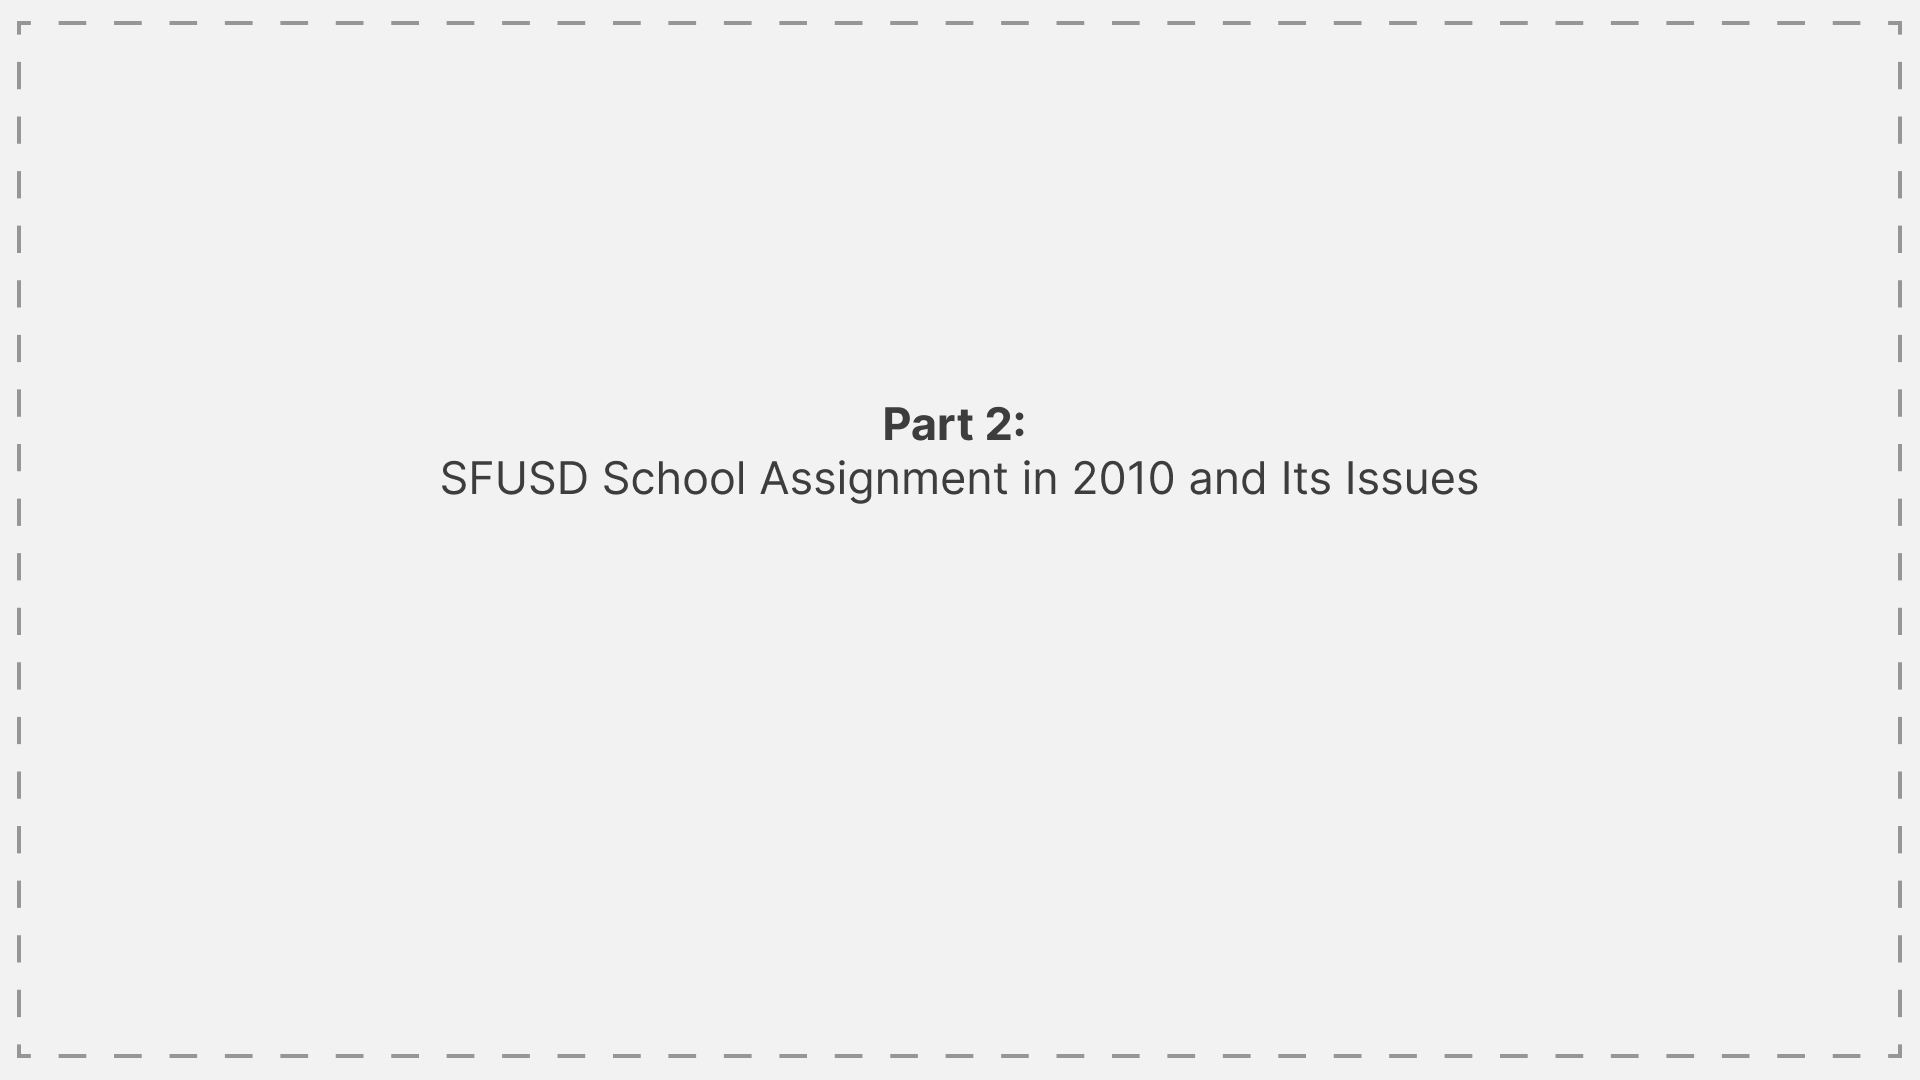
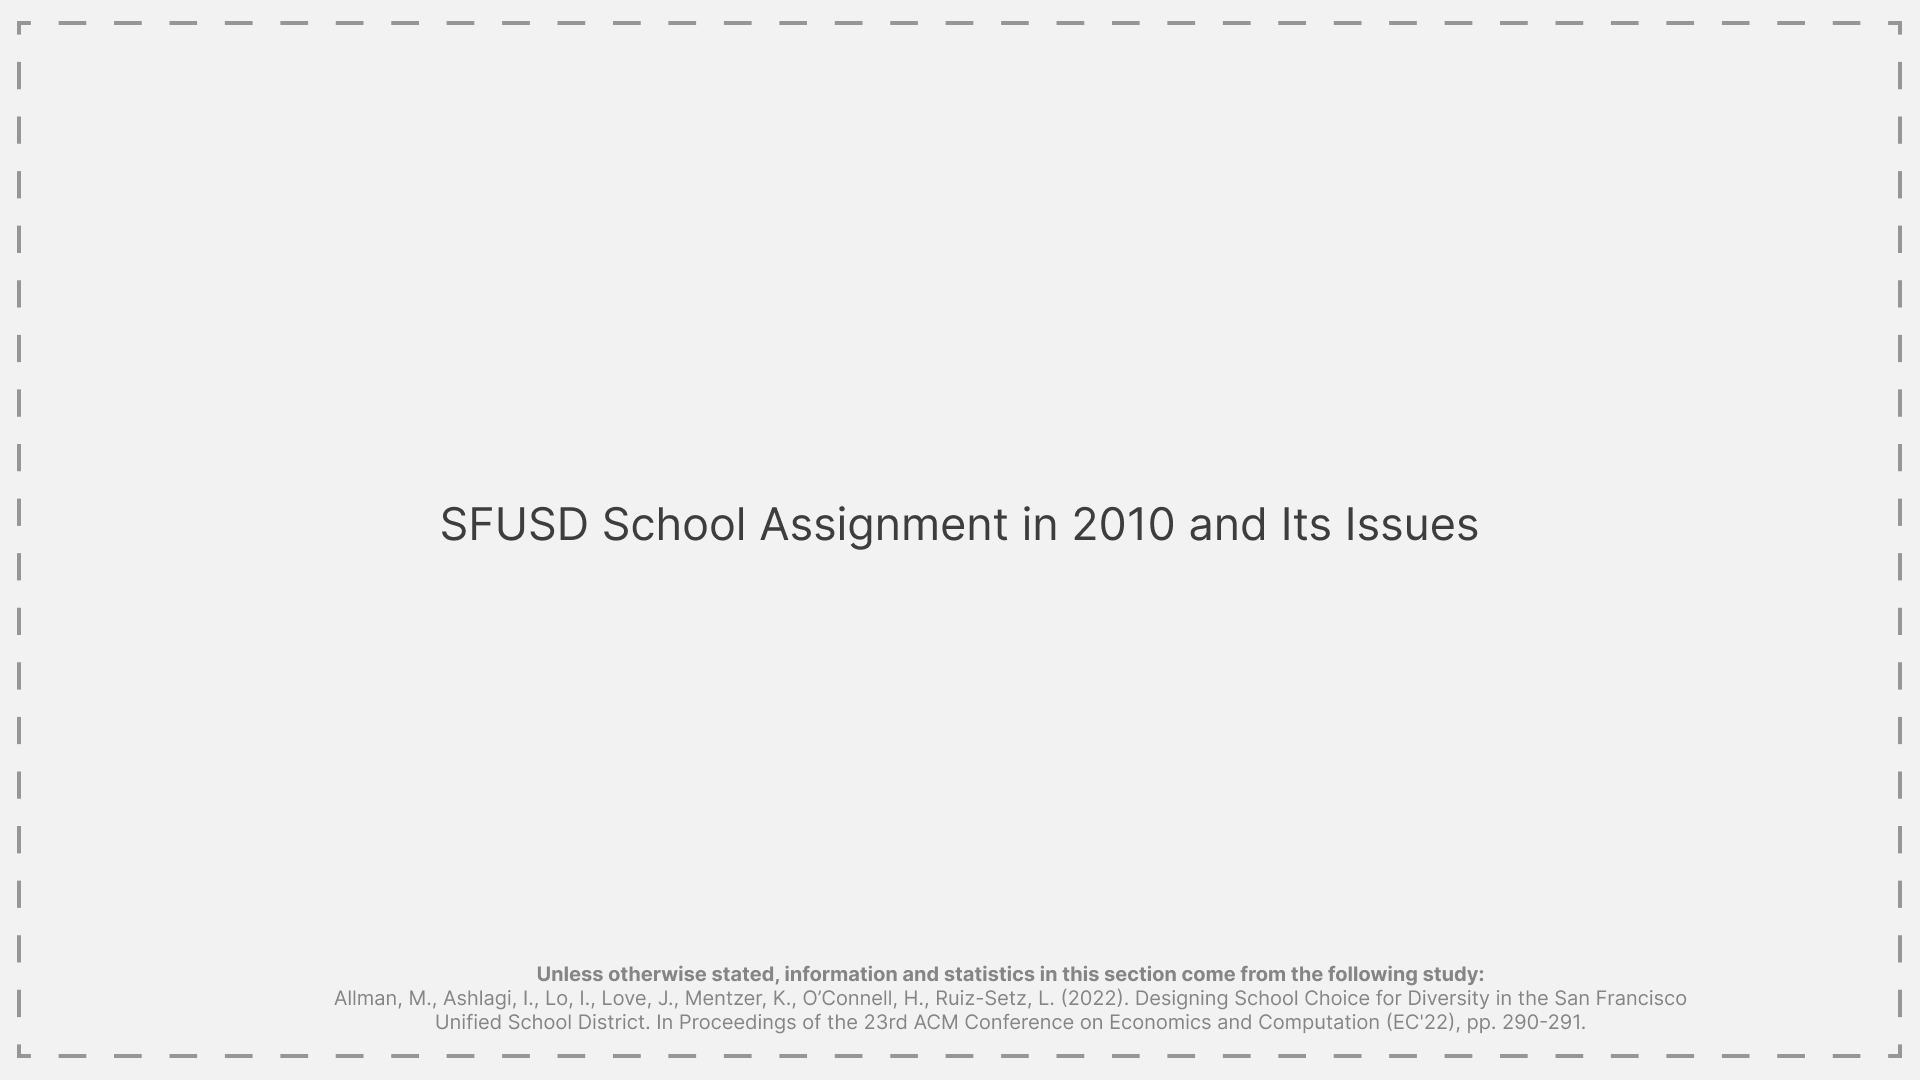
Added citations

Changed region(s): [[0.2188, 0.3667, 0.7812, 0.5194], [0.1875, 0.8861, 0.875, 0.9472]]

diff --git a/src/components/Part3/Part3.module.css b/src/components/Part3/Part3.module.css
@@ -25,7 +25,7 @@
 }
 
 .thumbnail {
-  width: 50px;
+  width: 70px;
   height: 50px;
   margin: 0 5px;
   cursor: pointer;
@@ -116,7 +116,7 @@
 
 .accordionContainer {
   position: absolute;
-  top: 55%;
+  top: 52%;
   left: 50%;
   transform: translate(-50%, -50%);
   gap: 330px;

diff --git a/src/components/Part1/Part1.module.css b/src/components/Part1/Part1.module.css
@@ -25,7 +25,7 @@
 }
 
 .thumbnail {
-  width: 50px;
+  width: 70px;
   height: 50px;
   margin: 0 5px;
   cursor: pointer;

diff --git a/src/components/Part2/Part2.module.css b/src/components/Part2/Part2.module.css
@@ -37,7 +37,7 @@
 }
 
 .thumbnail {
-  width: 50px;
+  width: 70px;
   height: 50px;
   margin: 0 5px;
   cursor: pointer;
